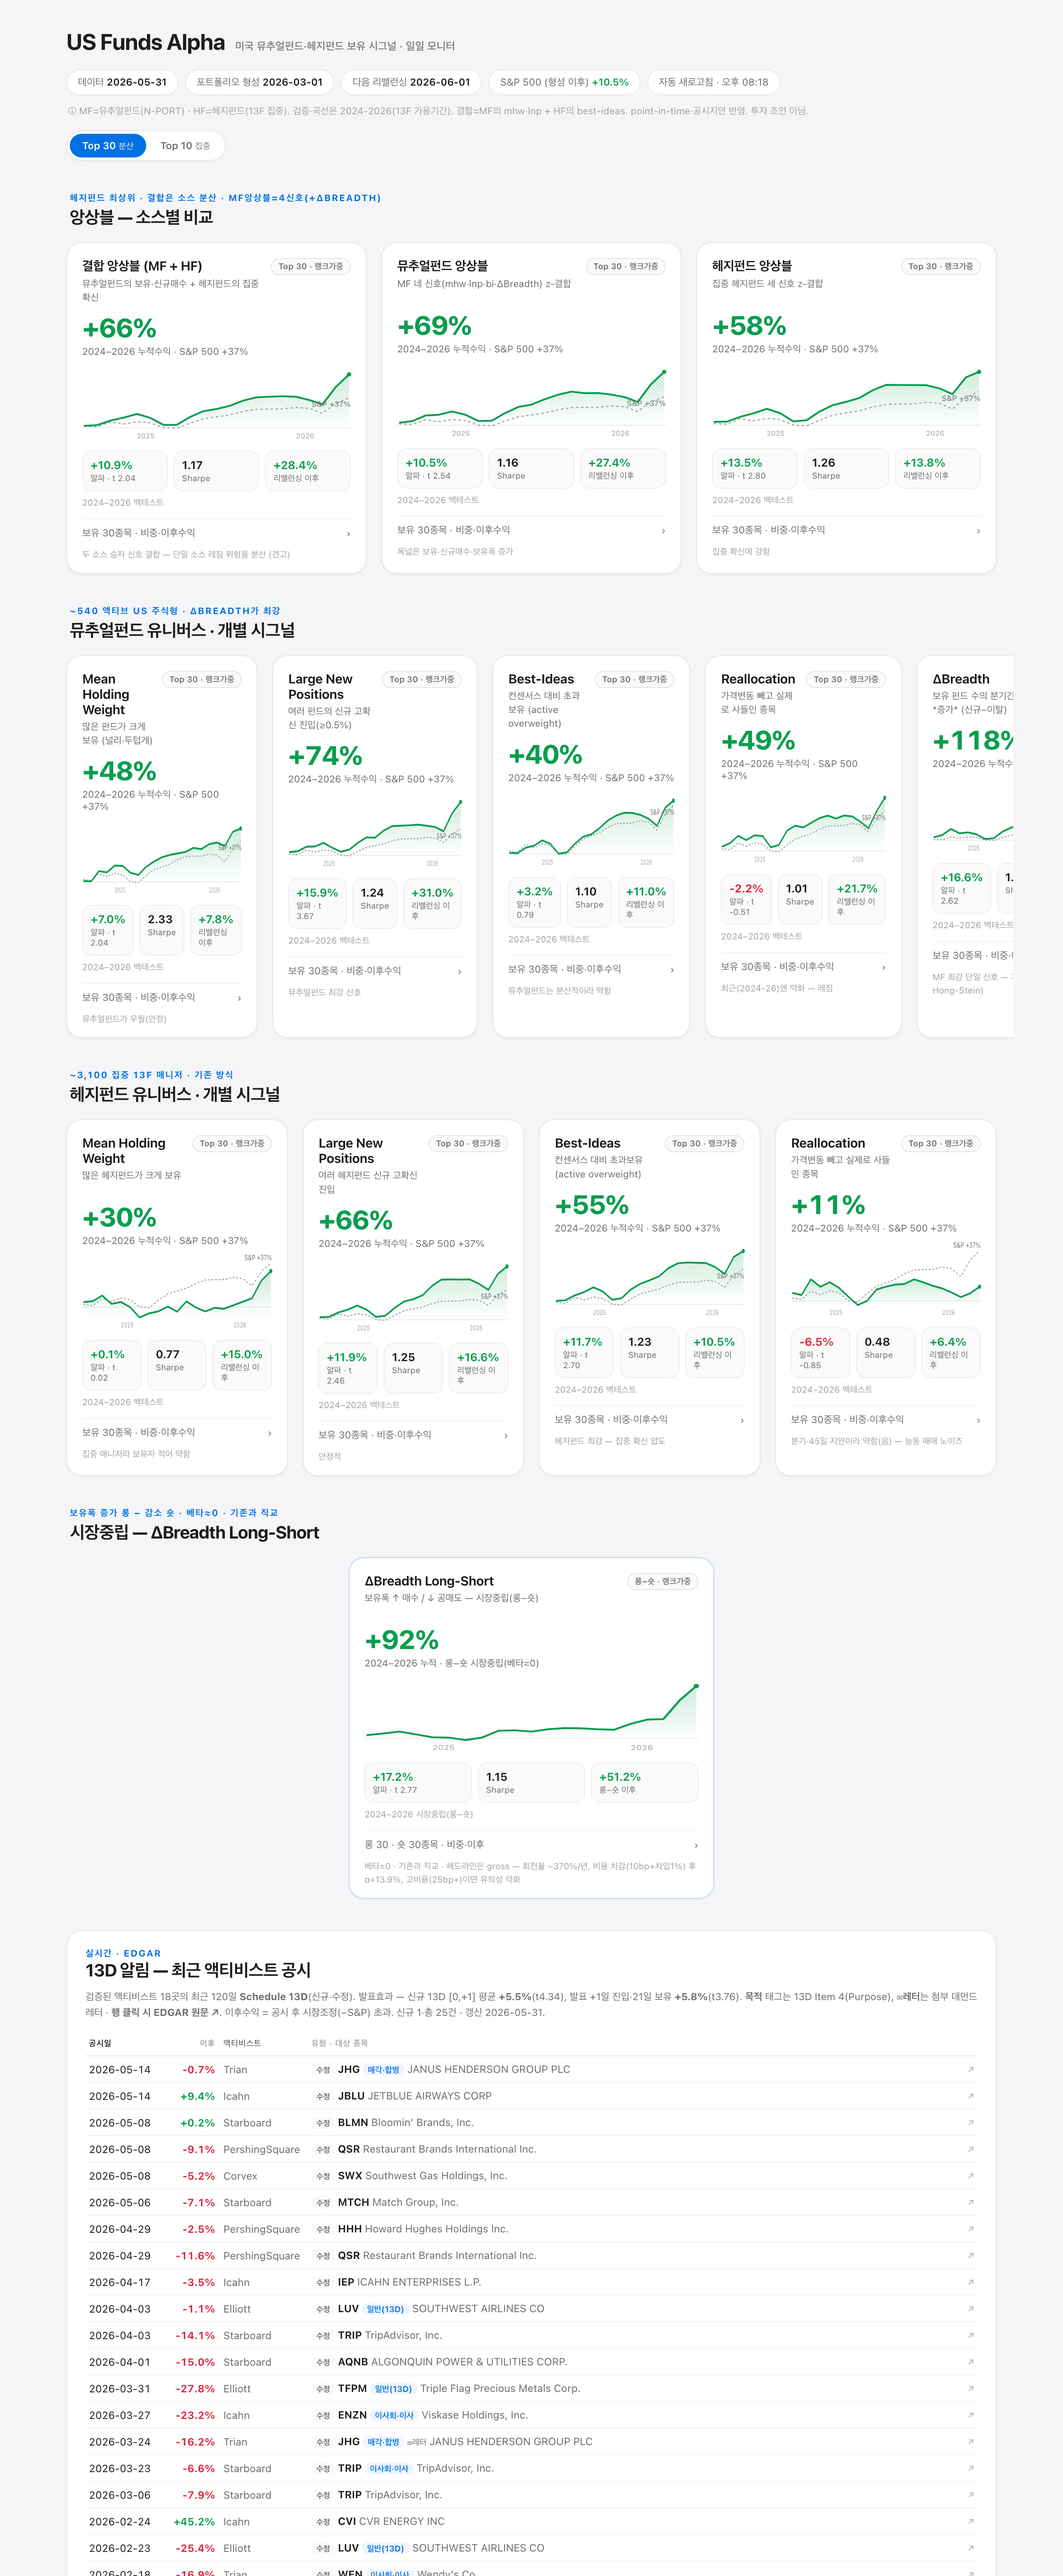
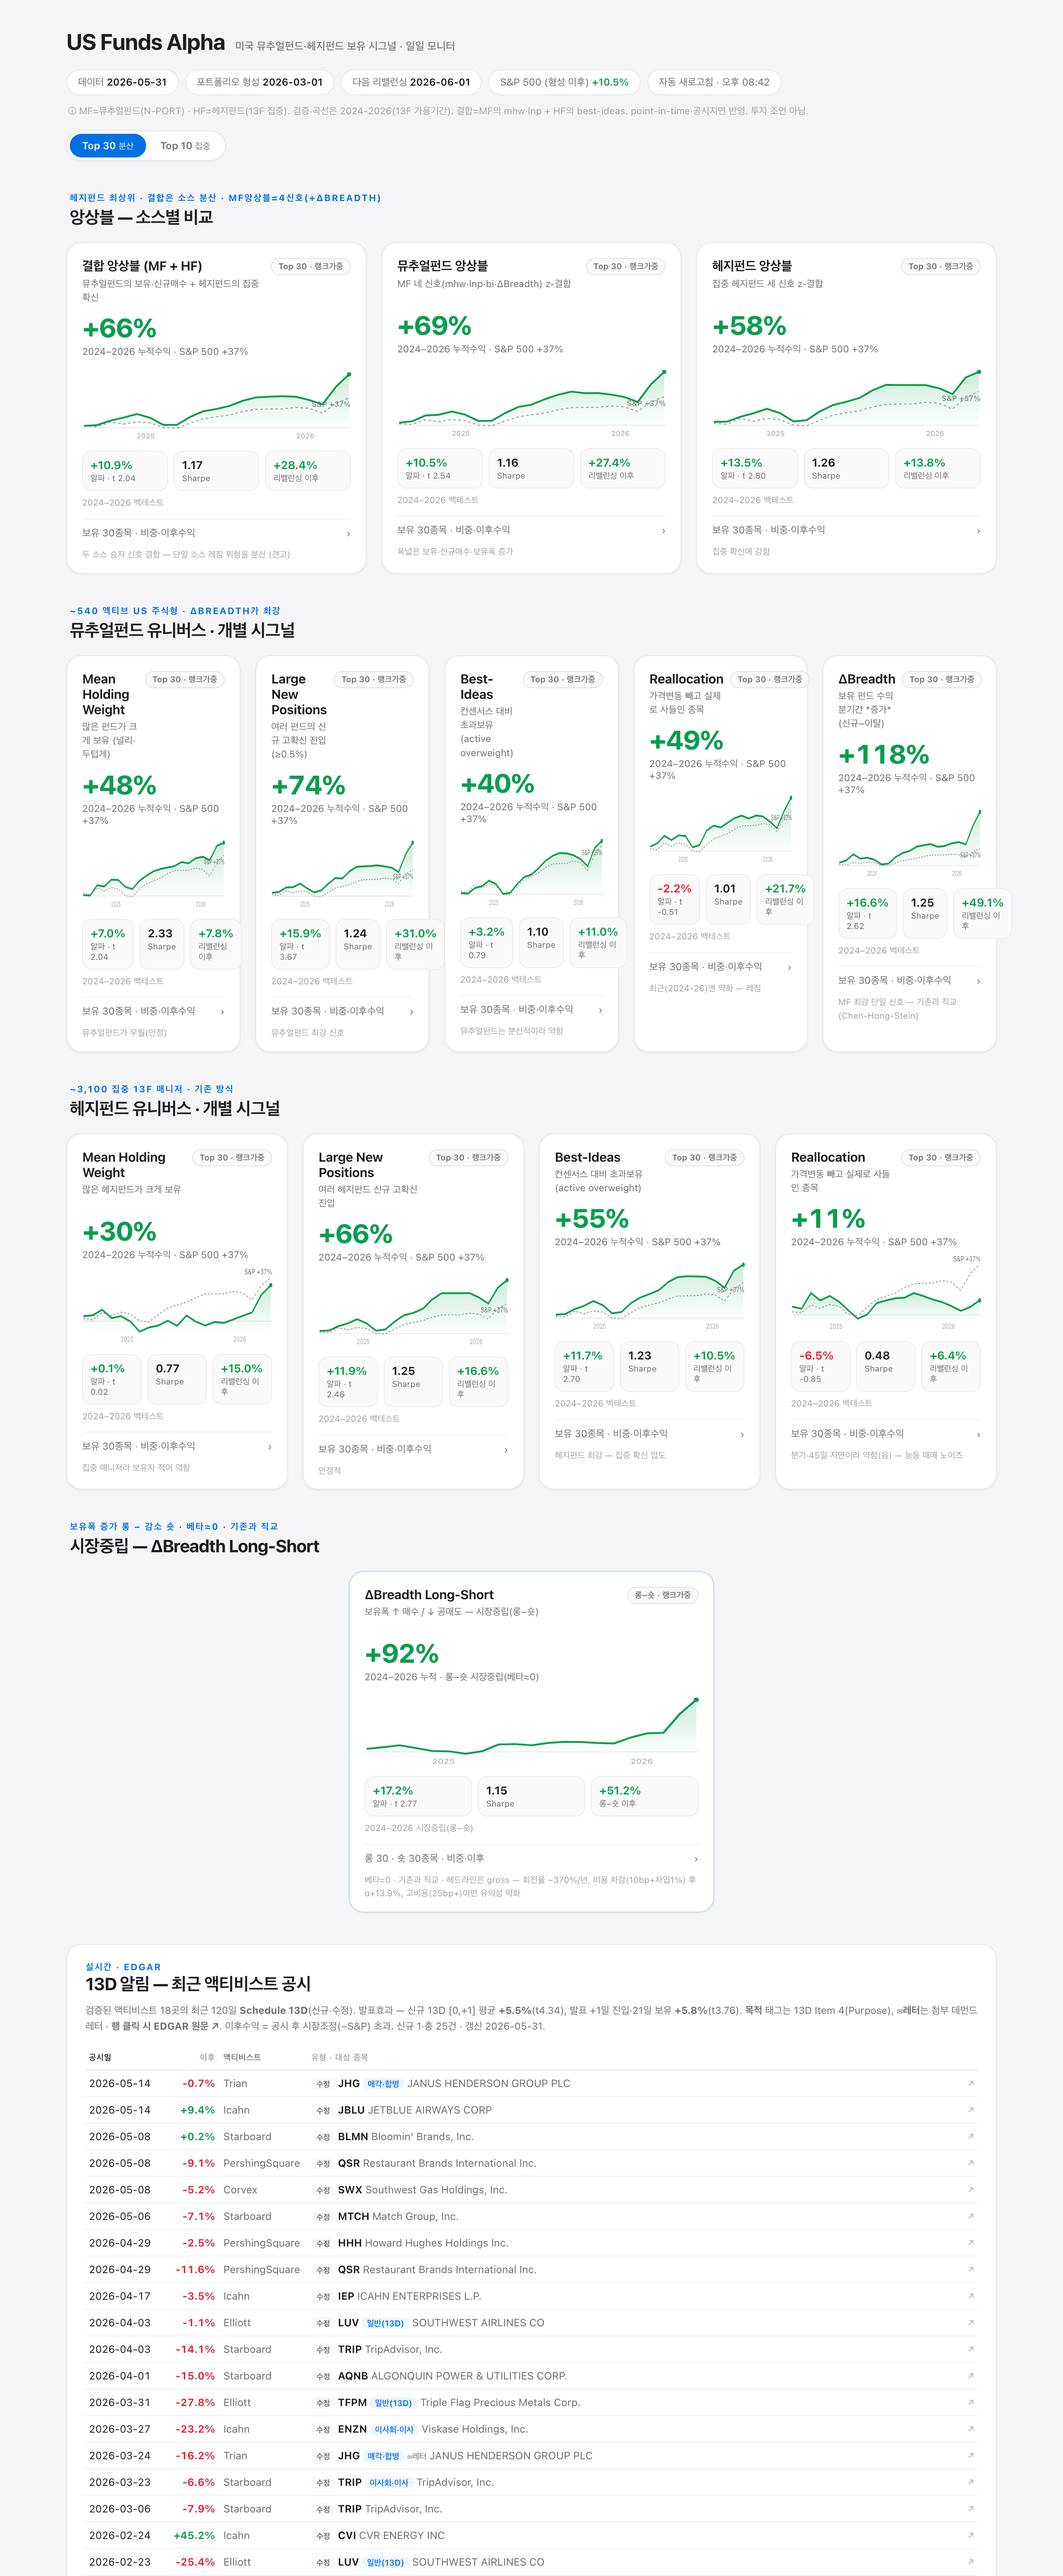
fix: 노트북에서 MF 5카드(ΔBreadth) 오른쪽 잘림 해결
5-카드 그리드 repeat(5,1fr)의 1fr=minmax(auto,1fr)이 카드 최소콘텐츠(~280px)보다
못 줄어들어 5×280=1400px로 컨테이너(1160px) 가로 오버플로 → 5번째 ΔBreadth 카드가 잘림.
 - .grid.five/four/three: repeat(N,minmax(0,1fr))로 카드가 줄어들게
 - .card{min-width:0} 추가
이제 1080px+에서 5카드 모두 표시(좁지만 잘림 없음), ΔBreadth +118% 온전히 노출.

diff --git a/dashboard/index.html b/dashboard/index.html
@@ -58,8 +58,8 @@ html,body{margin:0;background:var(--bg);color:var(--fg);overflow-x:hidden;
 .section-head h2{font-size:21px;font-weight:700;letter-spacing:-.4px;margin:3px 0 0}
 .grid{display:grid;grid-template-columns:1fr;gap:18px}
 @media(min-width:740px){.grid{grid-template-columns:1fr 1fr}}
-@media(min-width:1080px){.grid.four{grid-template-columns:1fr 1fr 1fr 1fr}.grid.three{grid-template-columns:1fr 1fr 1fr}.grid.five{grid-template-columns:repeat(5,1fr)}}
-@media(min-width:740px) and (max-width:1079px){.grid.five{grid-template-columns:1fr 1fr 1fr}}
+@media(min-width:1080px){.grid.four{grid-template-columns:repeat(4,minmax(0,1fr))}.grid.three{grid-template-columns:repeat(3,minmax(0,1fr))}.grid.five{grid-template-columns:repeat(5,minmax(0,1fr))}}
+@media(min-width:740px) and (max-width:1079px){.grid.five{grid-template-columns:repeat(3,minmax(0,1fr))}}
 @media(min-width:560px){.grid.one{grid-template-columns:minmax(0,440px);justify-content:center}}
 .card.mn{border-color:rgba(0,113,227,.28)}
 .sd{display:inline-block;font-size:9px;font-weight:700;width:13px;height:13px;line-height:13px;text-align:center;
@@ -87,7 +87,7 @@ a.frow:hover{background:var(--soft)}
 .lt{font-size:10px;color:var(--mut)} .arr{color:var(--mut2);font-size:10px}
 @media(max-width:520px){.frow{gap:8px;font-size:11px}.fleft{grid-template-columns:minmax(0,1fr);gap:0;max-width:calc(100vw - 170px)}.fleft .fa{display:none}.fleft .fc{max-width:100%}.frow .fdate{flex:0 0 70px}.frow .fr{flex:0 0 50px}.arr{display:none}}
 
-.card{background:var(--card);border:1px solid var(--line);border-radius:var(--r);
+.card{background:var(--card);border:1px solid var(--line);border-radius:var(--r);min-width:0;
   padding:18px 18px 14px;box-shadow:0 1px 3px rgba(0,0,0,.05);
   transition:transform .22s ease,box-shadow .22s ease}
 .card:hover{transform:translateY(-3px);box-shadow:0 12px 30px -12px rgba(0,0,0,.22)}
